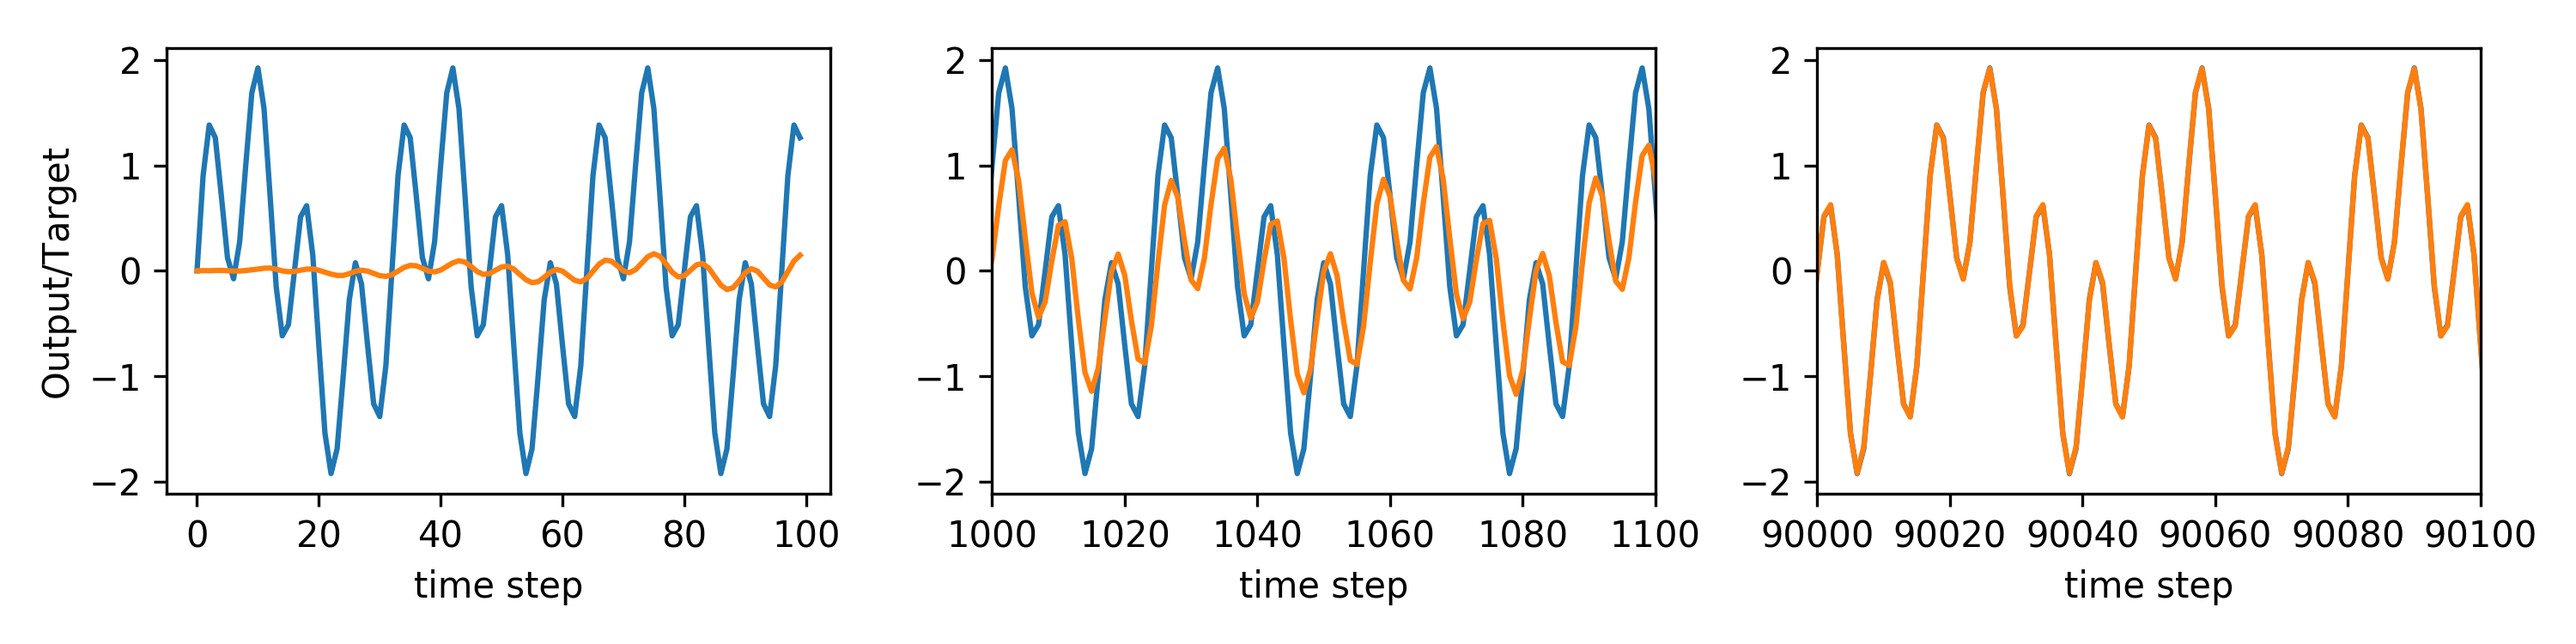
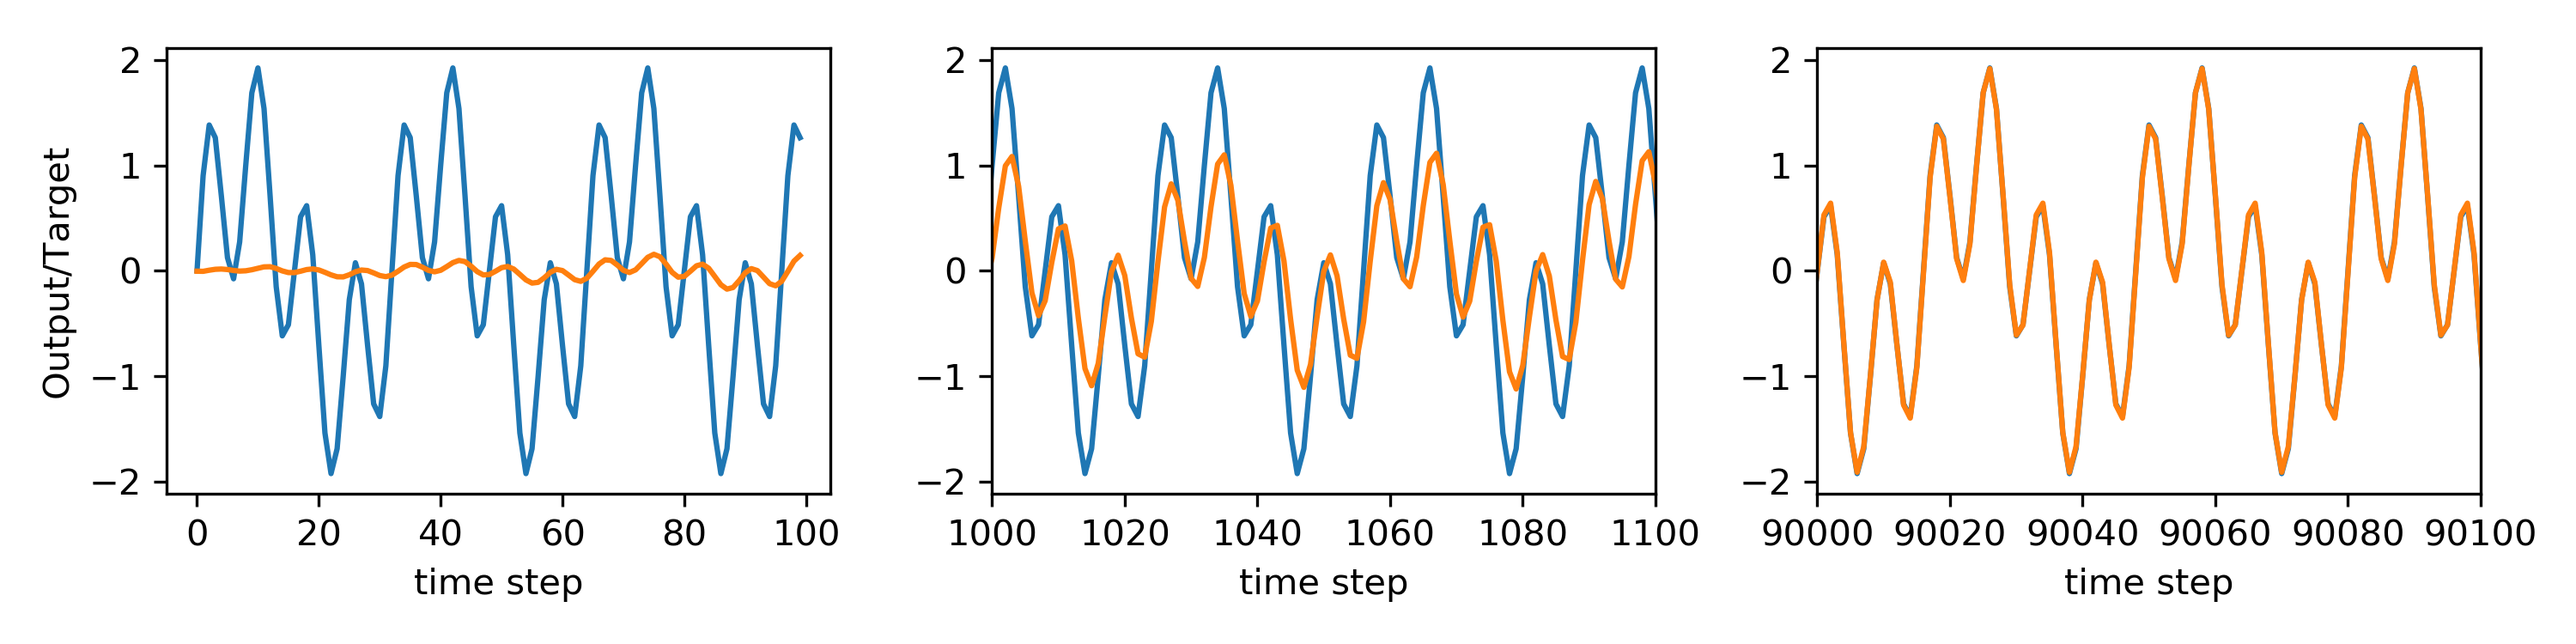
.

diff --git a/code/plot_echo_state_pd.py b/code/plot_echo_state_pd.py
@@ -1,0 +1,62 @@
+#!/usr/bin/env python3
+
+import numpy as np
+import matplotlib.pyplot as plt
+import matplotlib.ticker as mticker
+
+from plot_setting import *
+
+y = np.load('./sim_data/echo_state_pd/y_rec.npy')
+y_mean = np.load('./sim_data/echo_state_pd/y_mean_rec.npy')
+w_yx = np.load('./sim_data/echo_state_pd/w_yx_rec.npy')
+I_p = np.load('./sim_data/echo_state_pd/I_p_rec.npy')
+I_d = np.load('./sim_data/echo_state_pd/I_d_rec.npy')
+I_p_mean = np.load('./sim_data/echo_state_pd/I_p_mean_rec.npy')
+I_d_mean = np.load('./sim_data/echo_state_pd/I_d_mean_rec.npy')
+Err = np.load('./sim_data/echo_state_pd/Err_rec.npy')
+input_sequ = np.load('./sim_data/echo_state_pd/input_sequ.npy')
+
+n_t = input_sequ.shape[0]
+n_t_rec = w_yx.shape[0]
+
+t_ax = np.array(range(n_t))
+t_ax_skip = np.linspace(0,n_t,n_t_rec)
+
+height_total = 6.5
+width_total = 9
+
+fig_poster,ax = plt.subplots(2,1,figsize=(width_total,height_total))
+
+ax[0].plot(t_ax[:100],I_d[:100],label="$I_d$")
+
+ax[0].plot(t_ax[:100],I_p[:100],label="$I_p$")
+ax[0].legend()
+
+ax[0].set_xlabel("time step")
+ax[0].set_ylabel("$I_p / I_d$")
+
+
+
+
+
+ax[1].plot(t_ax[-100:],I_d[-100:],label="$I_d$")
+
+ax[1].plot(t_ax[-100:],I_p[-100:],label="$I_p$")
+
+
+ax[1].ticklabel_format(style='sci',axis='x',scilimits=(0,0),useMathText=True)	
+
+ax[1].legend()
+
+ax[1].set_xlabel("time step")
+ax[1].set_ylabel("$I_p / I_d$")
+
+plt.tight_layout()
+
+imgformat = 'svg'
+
+poster_fig_folder = "/home/fabian/work/repos/Poster_Bernstein/figures/"
+
+fig_poster.savefig(poster_fig_folder + "fig4_right." + imgformat,dpi=300)
+
+plt.show()

diff --git a/code/clopath_reduced_model.py b/code/clopath_reduced_model.py
@@ -45,8 +45,8 @@ A_ltp = 15.*10.**(-4.) # potentiation amplitude, mV^-1
 
 
 
-w_prox = 1.
-w_dist = 1.
+w_prox = .5
+w_dist = .5
 
 n_comp = 4
 
@@ -71,11 +71,11 @@ g_axial_dist_dist_prox_neg = 225.*10.**(-3.)
 
 ##
 
-n_sweep_rate_prox = 10
-n_sweep_rate_dist = 20
+n_sweep_rate_prox = 9
+n_sweep_rate_dist = 10
 
-rate_prox_sweep = np.linspace(0.,100.,n_sweep_rate_prox)
-rate_dist_sweep = np.linspace(0.,350.,n_sweep_rate_dist)
+rate_prox_sweep = np.linspace(0.,150.,n_sweep_rate_prox)
+rate_dist_sweep = np.linspace(0.,500.,n_sweep_rate_dist)
 
 output_rate = np.ndarray((n_sweep_rate_prox,n_sweep_rate_dist))
 
@@ -124,7 +124,9 @@ for i in tqdm(range(n_sweep_rate_prox)):
 
 			I_L = -g_L*(u - E_L)
 
-			I_exp[0] = g_L * Δ_T * np.exp((u[0] - V_T)/Δ_T)
+			#I_exp[0] = g_L * Δ_T * np.exp((u[0] - V_T)/Δ_T)
+			I_exp = g_L * Δ_T * np.exp((u - V_T)/Δ_T)
+			I_exp[2] = 0.
 
 			I_ampa_prox = -g_dyn_ampa_prox * (u[1] - E_ampa)
 			I_nmda_prox = -g_dyn_nmda_prox * (u[1] - E_nmda)
@@ -194,7 +196,7 @@ for i in tqdm(range(n_sweep_rate_prox)):
 		output_rate[i,j] = len(spike_list[0])/T
 
 fig_sweep, ax_sweep = plt.subplots(1,1)#
-ax_sweep.pcolormesh(output_rate)
+ax_sweep.pcolormesh(rate_prox_sweep,rate_dist_sweep,output_rate.T)
 
 t_arr = np.linspace(0.,T,n_t)
 

diff --git a/code/elman_net_4_echo_state_pd.py b/code/elman_net_4_echo_state_pd.py
@@ -156,6 +156,17 @@ for t in tqdm(range(n_t)):
 
 input_sequ = input(np.array(range(n_t)))
 
+np.save('./sim_data/echo_state_pd/y_rec',y_rec)
+np.save('./sim_data/echo_state_pd/y_mean_rec',y_mean_rec)
+np.save('./sim_data/echo_state_pd/w_yx_rec',w_yx_rec)
+np.save('./sim_data/echo_state_pd/I_p_rec',I_p_rec)
+np.save('./sim_data/echo_state_pd/I_d_rec',I_d_rec)
+np.save('./sim_data/echo_state_pd/I_d_mean_rec',I_d_mean_rec)
+np.save('./sim_data/echo_state_pd/I_p_mean_rec',I_p_mean_rec)
+np.save('./sim_data/echo_state_pd/Err_rec',Err_rec)
+np.save('./sim_data/echo_state_pd/input_sequ',input_sequ)
+np.save('./sim_data/echo_state_pd/w_xy',w_xy)
+
 t_ax = np.array(range(n_t))
 t_ax_skip = np.linspace(0,n_t,n_t_rec)
 
@@ -198,6 +209,15 @@ ax_w.set_ylabel("$w_{yx}$")
 plt.tight_layout()
 
 plt.savefig("../notes/presentation/figures/echo_state_network_pd_act_grad_desc_w_yx.png",dpi=300)
+
+
+height_total = 4.2
+width_total = 16.125
+
+fig_poster = plt.figure(figsize=(width_total,height_total))
+
+gsposter = gridspec.GridSpec(nrows=2,ncols=4,left=0.06,right=0.99,bottom=0.15,top=0.95,wspace=0.43,hspace=0.6) 
+
 
 plt.show()
 
